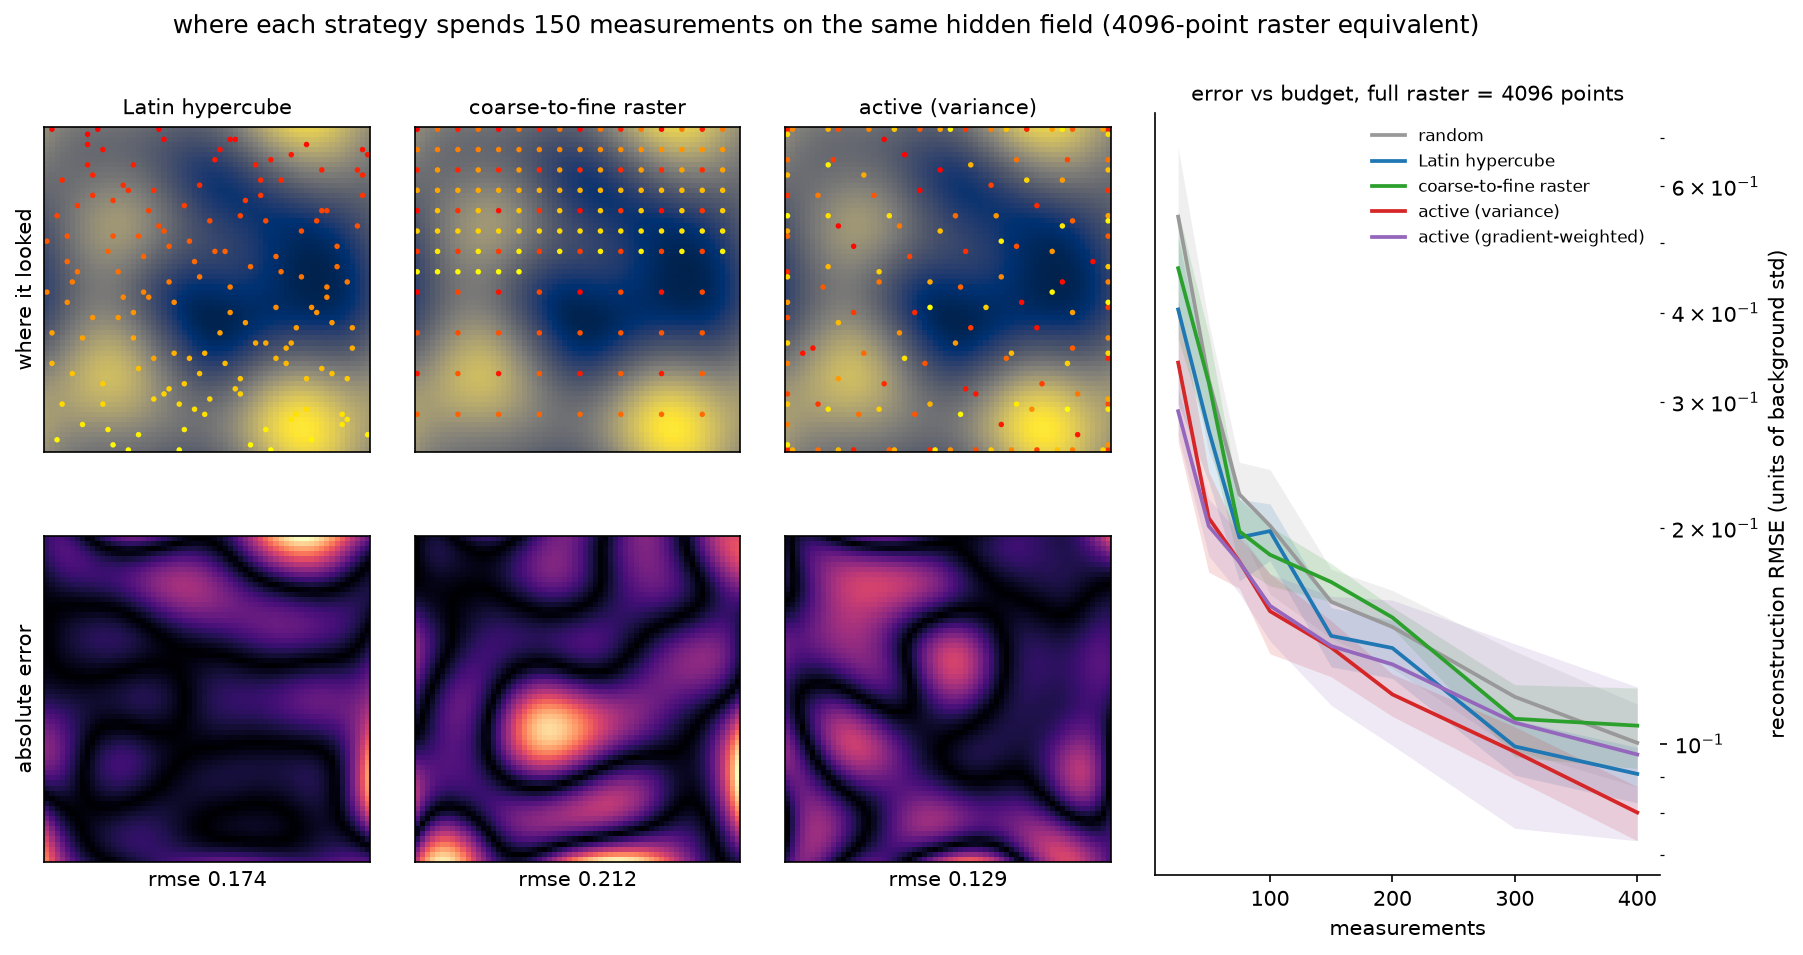
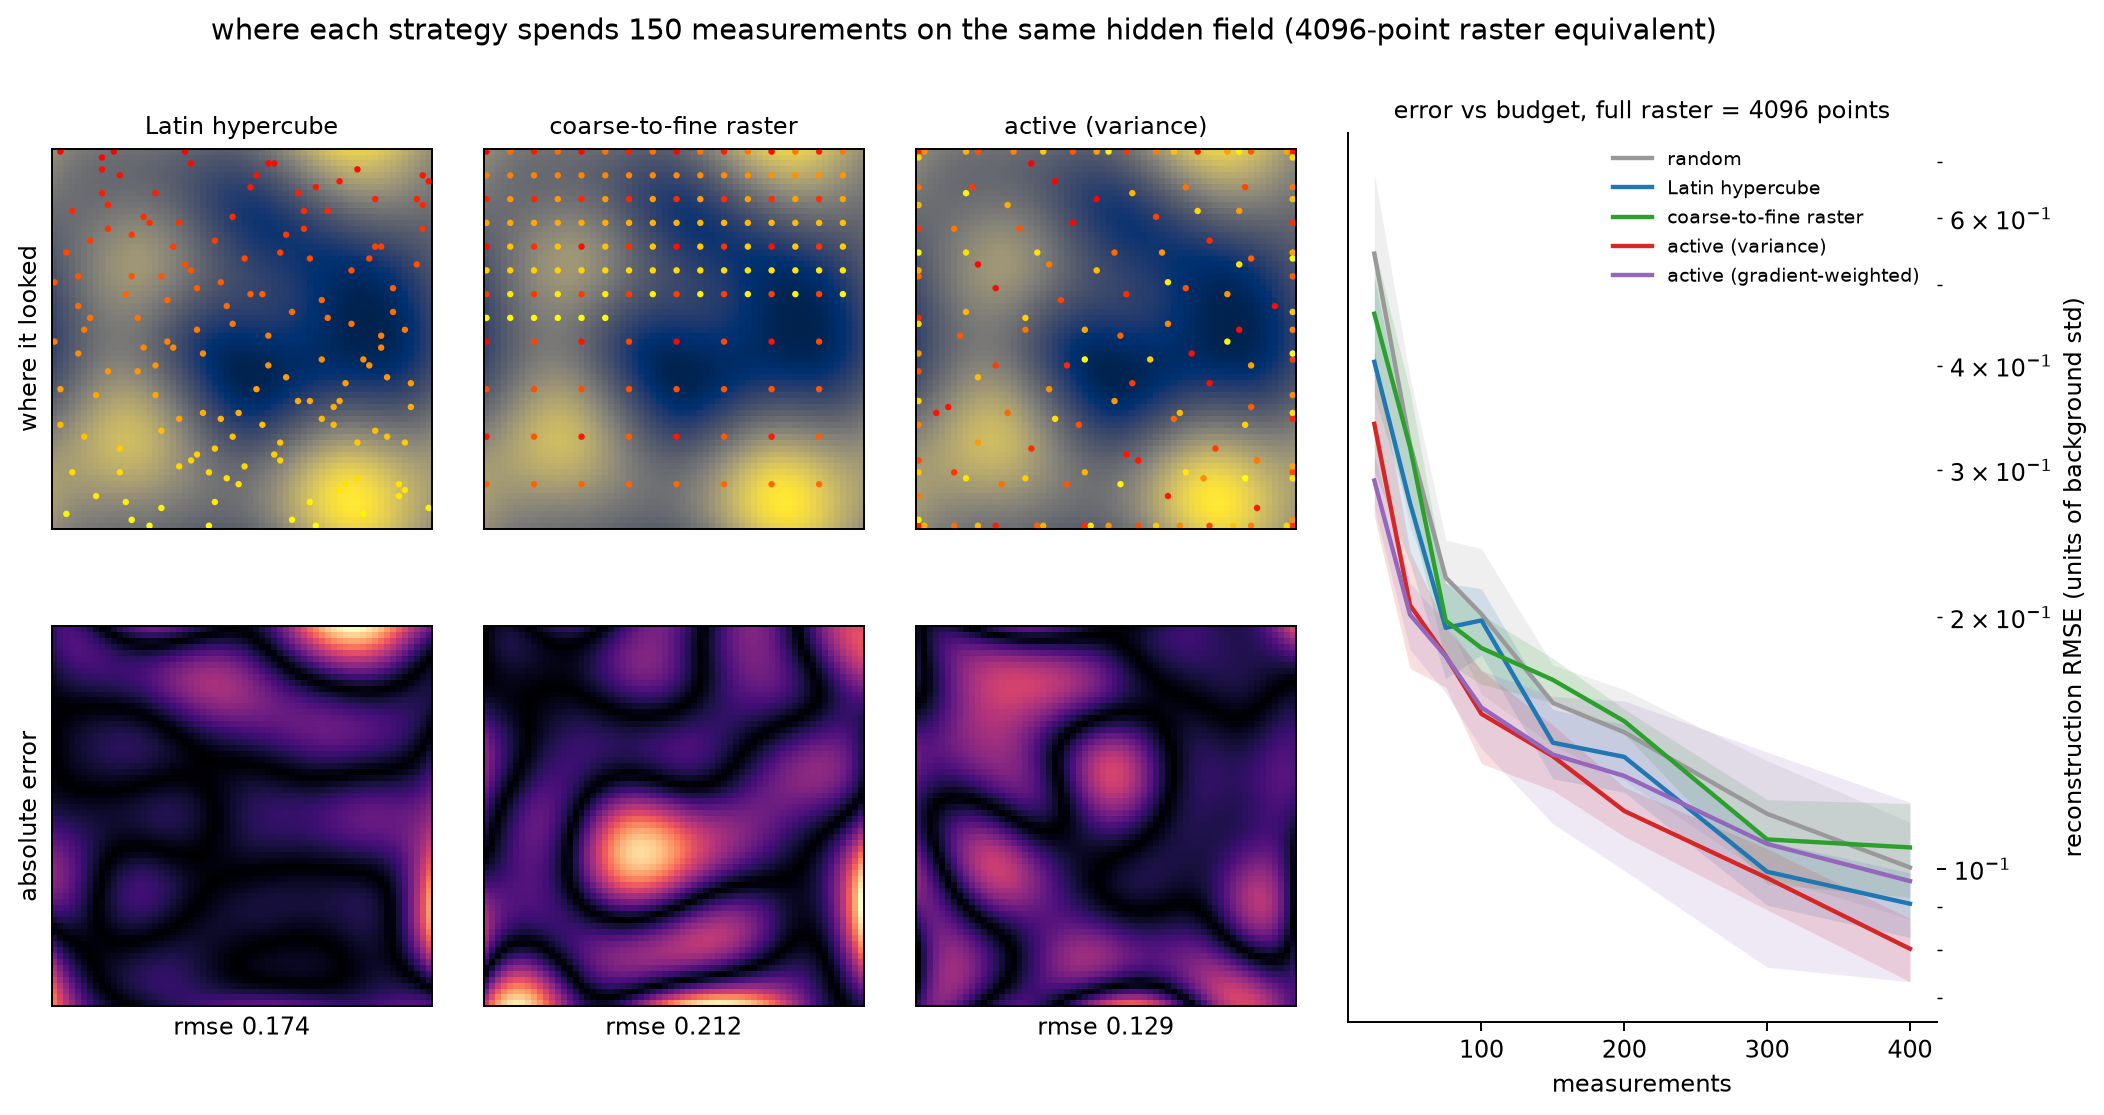
Re-export sampling-strategy hero at higher dpi as RGB
Render the hero at dpi 175 so its short side clears 1080 px for social
posts, and save as RGB (drop the opaque alpha channel). hero_figure and
_save gain an optional dpi argument. Panels, RMSE values and the
error-vs-budget curve are unchanged (verified). No data, results, or
metrics change.

diff --git a/src/activescan/plots.py b/src/activescan/plots.py
@@ -46,9 +46,9 @@ def _style(ax: plt.Axes) -> None:
     ax.spines[["top", "right"]].set_visible(False)
 
 
-def _save(fig: plt.Figure, path: str | Path) -> None:
+def _save(fig: plt.Figure, path: str | Path, dpi: int = 150) -> None:
     Path(path).parent.mkdir(parents=True, exist_ok=True)
-    fig.savefig(path, dpi=150, bbox_inches="tight")
+    fig.savefig(path, dpi=dpi, bbox_inches="tight")
     plt.close(fig)
 
 
@@ -120,6 +120,7 @@ def hero_figure(
     runs: dict[str, tuple[RunResult, np.ndarray]],
     curves: dict[str, Any],
     path: str | Path,
+    dpi: int = 150,
 ) -> None:
     """The sampling-trajectory panel.
 
@@ -185,7 +186,7 @@ def hero_figure(
         f"on the same hidden field ({scene.n_positions}-point raster equivalent)",
         fontsize=12,
     )
-    _save(fig, path)
+    _save(fig, path, dpi=dpi)
 
 
 def animate_run(scene: ScanScene, run: RunResult, path: str | Path, fps: int = 4) -> None:

diff --git a/scripts/make_figures.py b/scripts/make_figures.py
@@ -66,7 +66,9 @@ def main() -> int:
         run = run_strategy(scene, name, HERO_BUDGET, seed=0)
         recon, _ = gp_reconstruct(scene, run.order, run.values)
         runs[name] = (run, recon)
-    hero_figure(scene, runs, _load("reconstruction.json"), FIG / "hero.png")
+    # Higher dpi so the short side clears 1080 px for social posts; layout,
+    # colormaps and fonts are unchanged.
+    hero_figure(scene, runs, _load("reconstruction.json"), FIG / "hero.png", dpi=175)
     print("wrote hero.png")
 
     # acquisition animation